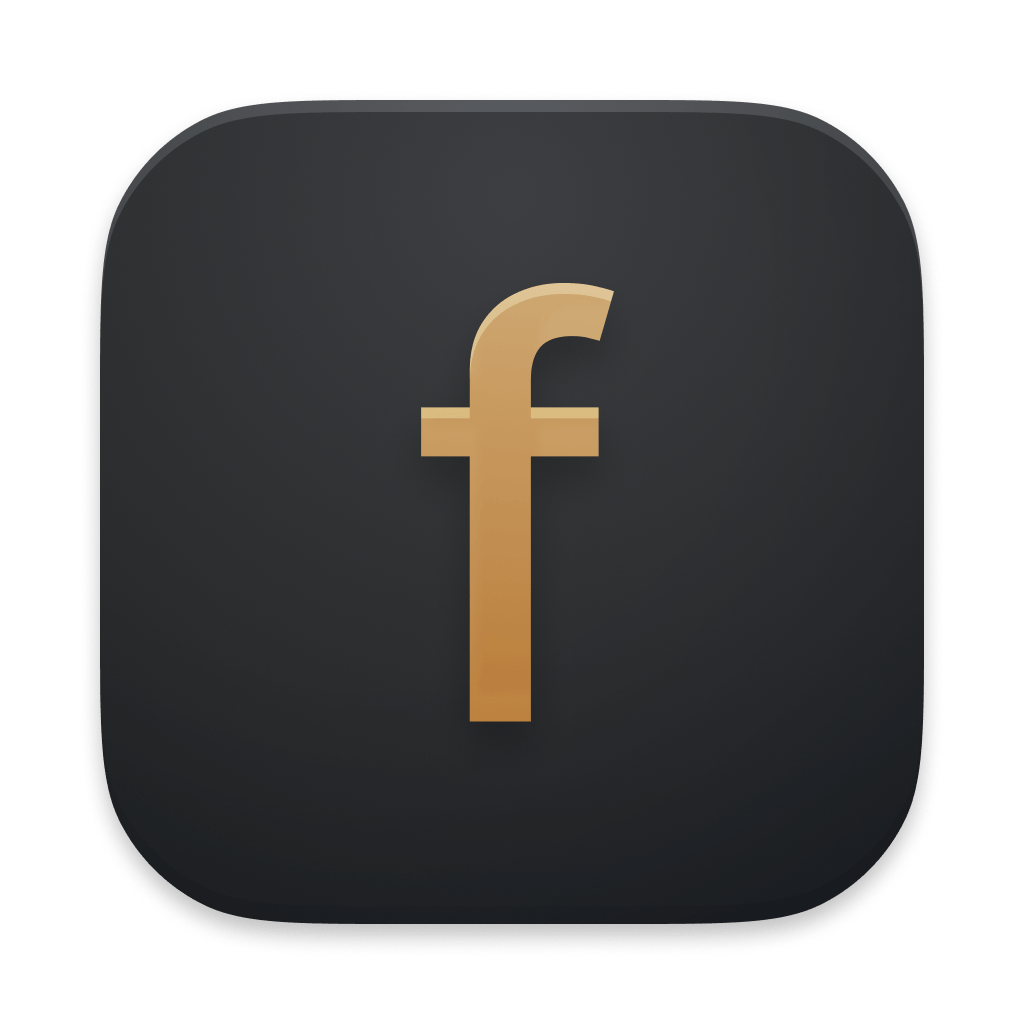
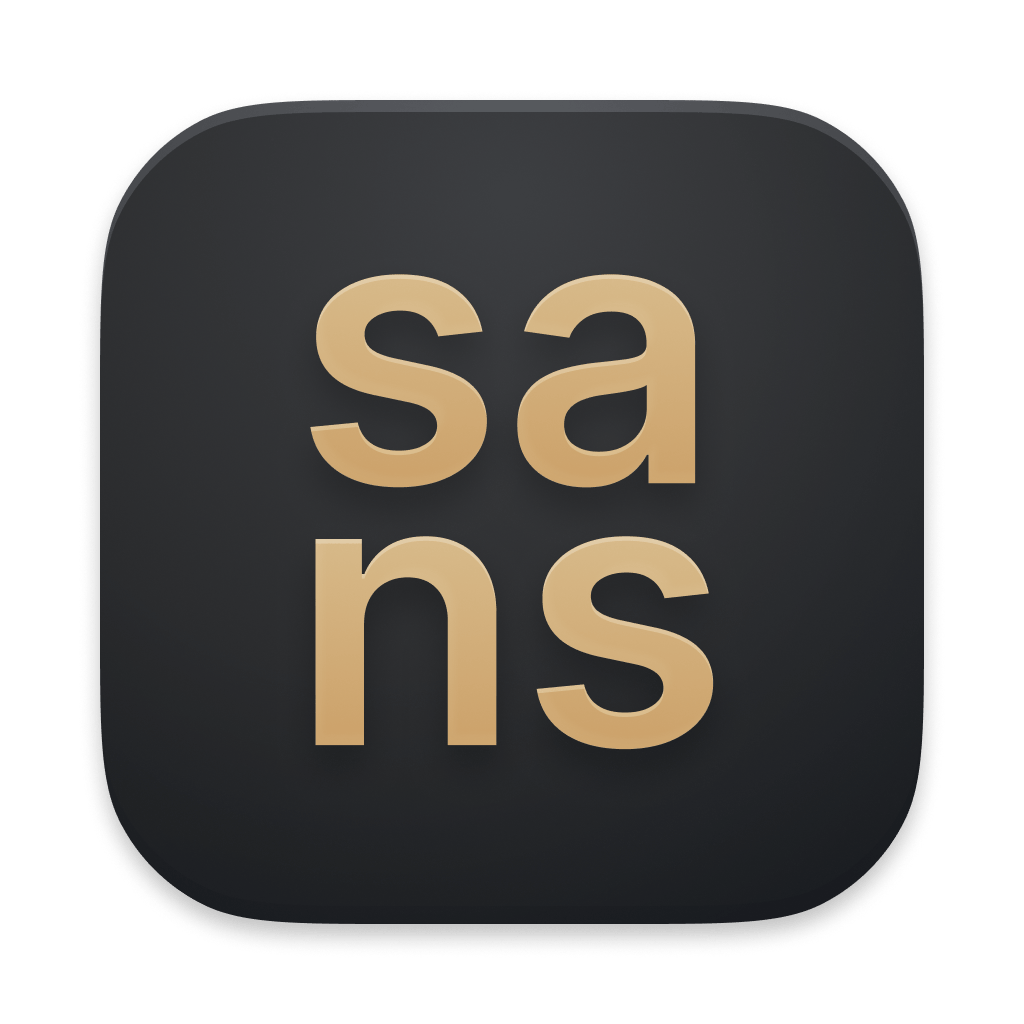
Delete Font app; rename project to Sans

Changed region(s): [[0.2812, 0.25, 0.7188, 0.75]]

diff --git a/Package.swift b/Package.swift
@@ -2,12 +2,12 @@
 import PackageDescription
 
 let package = Package(
-    name: "Font",
+    name: "Sans",
     platforms: [.macOS(.v13)],
     targets: [
         .executableTarget(
-            name: "Font",
-            path: "Sources/Font"
+            name: "Sans",
+            path: "Sources/Sans"
         )
     ]
 )

diff --git a/Sources/Sans/FontApp.swift b/Sources/Sans/FontApp.swift
@@ -1,7 +1,7 @@
 import SwiftUI
 
 @main
-struct FontApp: App {
+struct SansApp: App {
     var body: some Scene {
         WindowGroup {
             ContentView()
